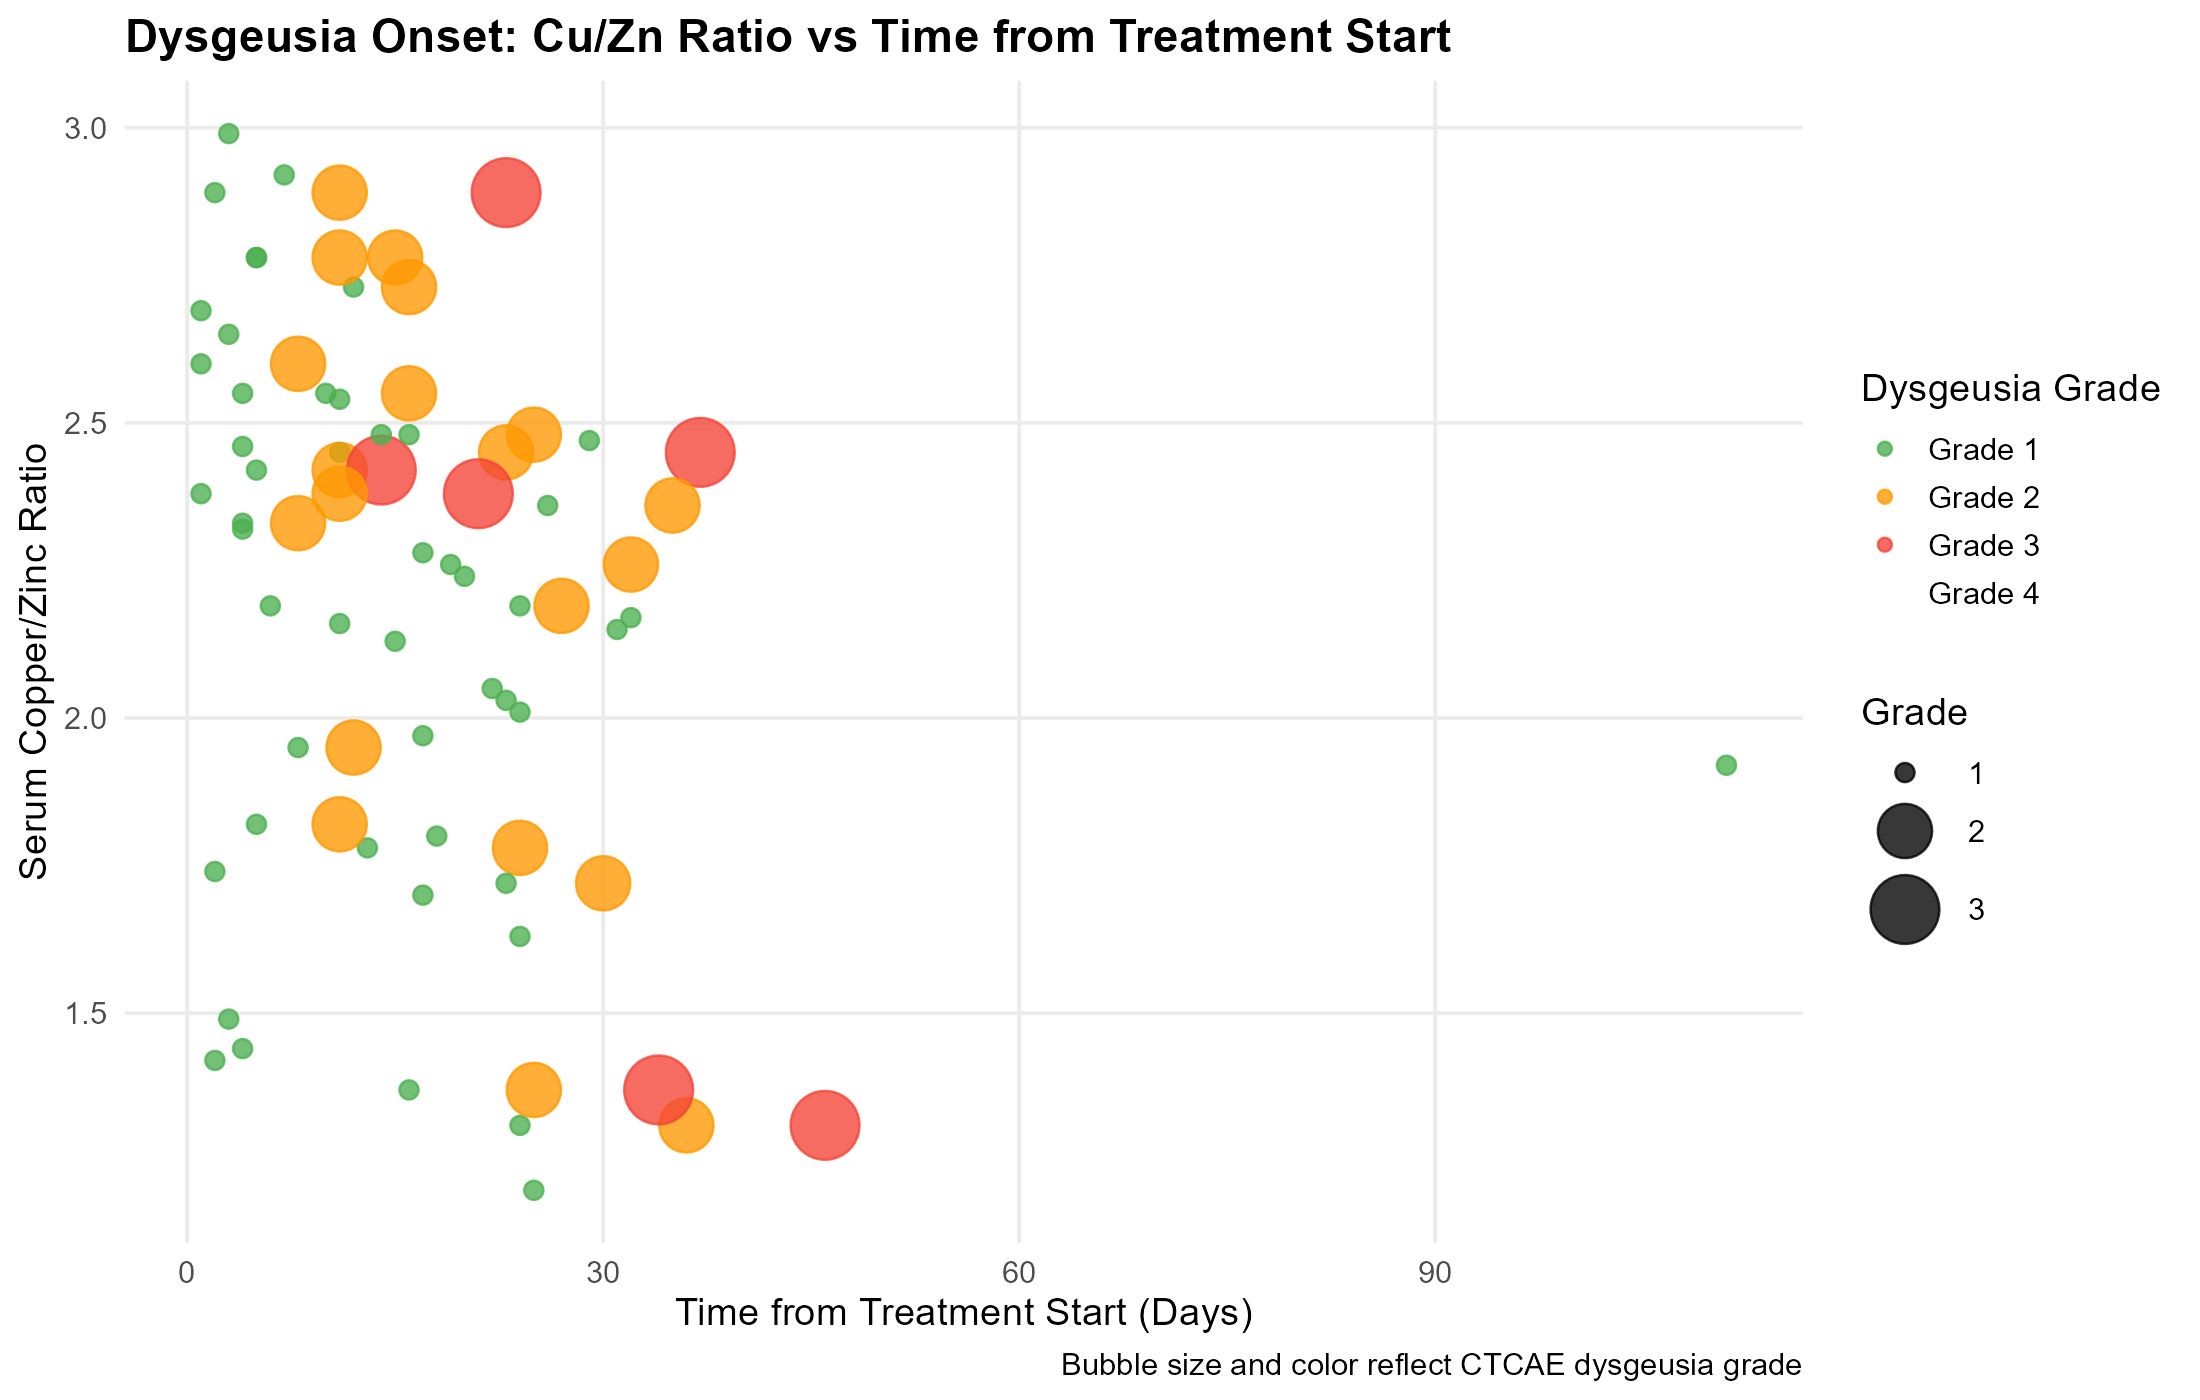
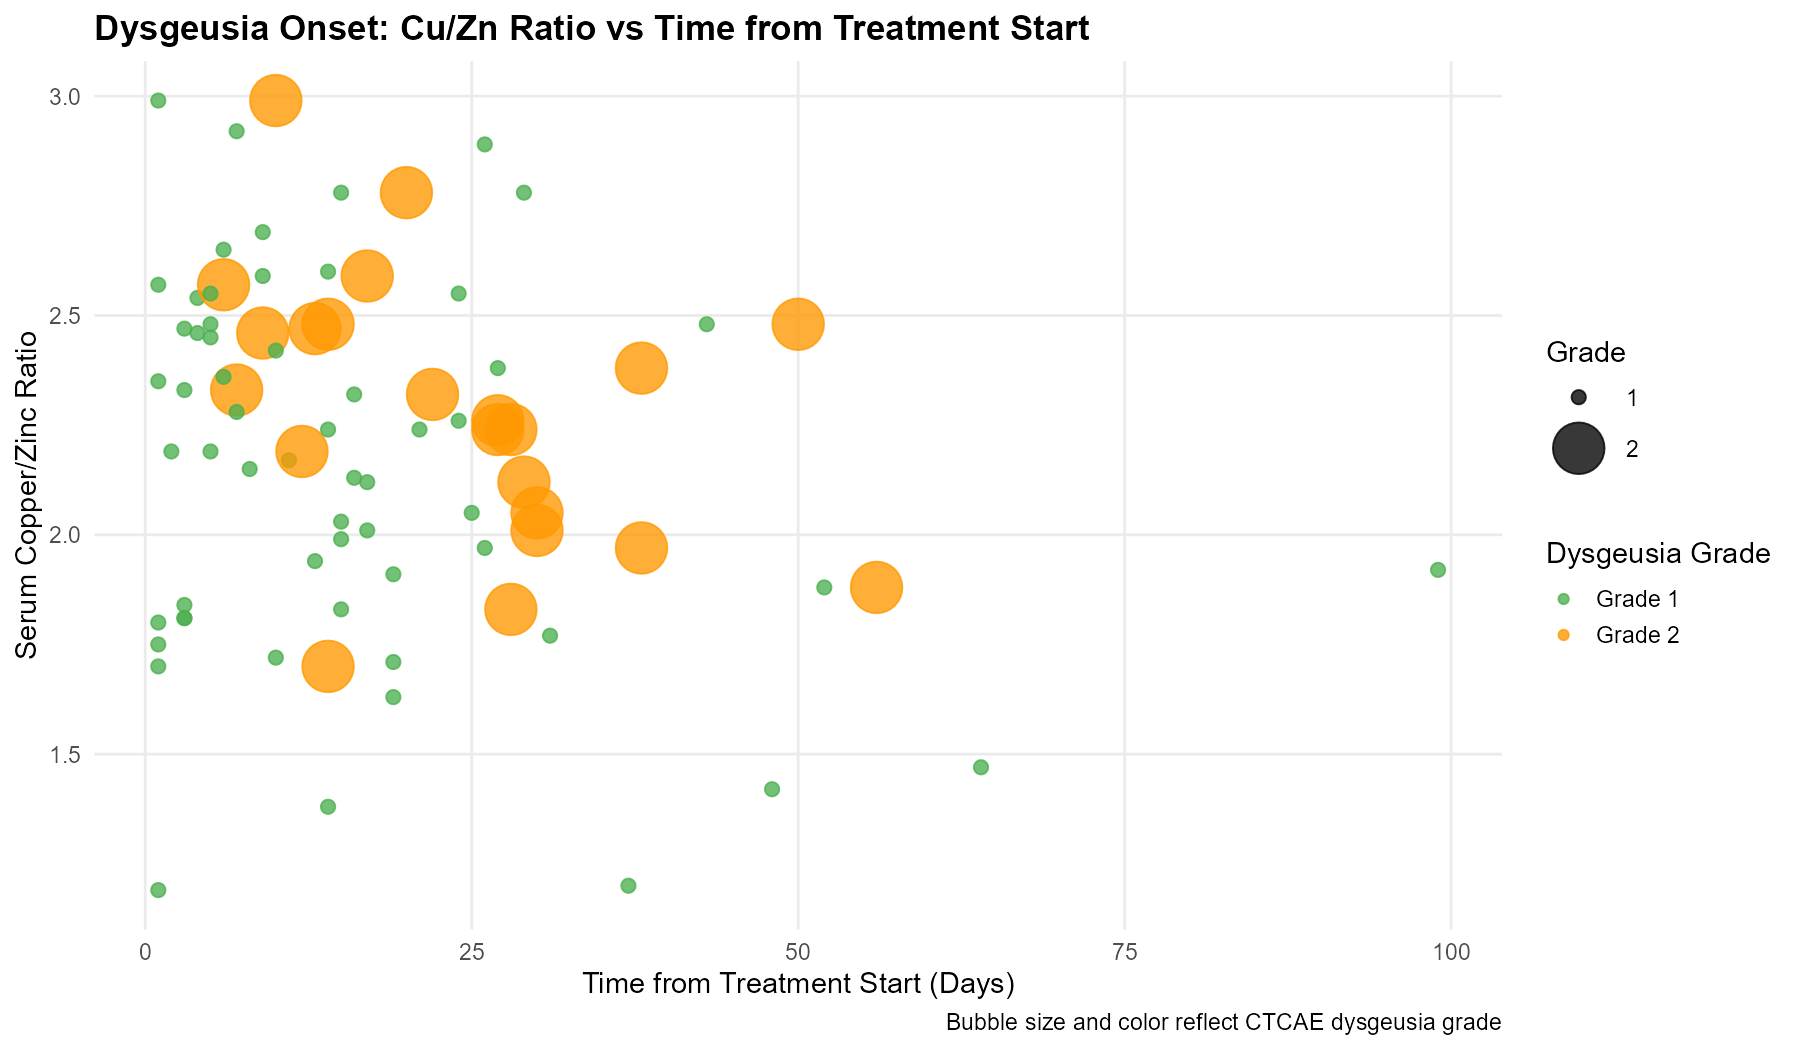
Use 25 mg top dose, CTCAE Grade 1-2 dysgeusia, ordinal regression
- Replace 30 mg dose level with 25 mg in simulation, filters, and docs
- Remove Grade 3/4 dysgeusia (CTCAE defines only Grade 1-2) from
  simulation, bubble plot, grade filter, and axis scales
- Reject uploaded CSVs containing dysgeusia_grade >= 3
- Replace ANOVA/linear regression on max grade with proportional-odds
  ordinal logistic regression (MASS::polr); add ORs to Word report
- Add MASS to DESCRIPTION and renv.lock; regenerate bubble plot image

diff --git a/CLAUDE.md b/CLAUDE.md
@@ -16,7 +16,7 @@ One row per patient:
 | Column | Type | Description |
 |--------|------|-------------|
 | patient_id | integer | Unique patient identifier |
-| dose_mg | numeric | Dose level: 1, 2, 4, 8, 15, or 30 mg |
+| dose_mg | numeric | Dose level: 1, 2, 4, 8, 15, or 25 mg |
 | cu_zn_ratio | numeric | Baseline serum Cu/Zn ratio |
 
 ### Event Table (`event_data`) — Long Format
@@ -24,7 +24,7 @@ One row per patient × grade:
 | Column | Type | Description |
 |--------|------|-------------|
 | patient_id | integer | Links to patient table |
-| dysgeusia_grade | integer | CTCAE grade (1–4) at first occurrence |
+| dysgeusia_grade | integer | CTCAE grade (1–2) at first occurrence |
 | time_to_first_onset | integer | Days from treatment start to first report of this grade |
 
 ### Full/Merged Table (`full_data`)
@@ -35,6 +35,8 @@ One row per patient × grade:
 - A patient can have grade 1 without grade 2, but NOT grade 2 without grade 1
 - `time_to_first_onset` is the FIRST occurrence of each grade (not a repeat)
 - Grade 0 = no dysgeusia (event-free / censored)
+- Per CTCAE, dysgeusia has only Grade 1 (mild) and Grade 2 (moderate); no Grade 3/4. Uploaded files with grade ≥ 3 are rejected
+- Max grade (0/1/2) analyzed with ordinal logistic regression (`MASS::polr`)
 - Censoring time = 180 days for survival analysis
 
 ## File Structure
@@ -60,7 +62,7 @@ Project 1/
 - **Shiny ecosystem**: `shiny`, `bslib`, `DT`, `shinyWidgets`
 - **Visualization**: `ggplot2`, `plotly`
 - **Data**: `dplyr`, `tidyr`
-- **Statistics**: `survival`, `broom`
+- **Statistics**: `survival`, `broom`, `MASS`
 - **Reporting**: `officer`, `flextable`
 - **Optional**: `survminer`
 

diff --git a/README.md b/README.md
@@ -8,10 +8,10 @@ An R Shiny application analyzing the relationship between dose level, serum Copp
 
 ## App Features
 
-- **Simulated dataset** — 100 patients across 6 dose levels (1, 2, 4, 8, 15, 30 mg)
+- **Simulated dataset** — 100 patients across 6 dose levels (1, 2, 4, 8, 15, 25 mg)
 - **Interactive bubble plot** — time vs Cu/Zn ratio, bubble size/color by CTCAE dysgeusia grade
 - **Dose & grade filters** — explore subsets interactively
-- **Statistical analysis** — dose-response, Cu/Zn vs grade, Cox regression, KM curves
+- **Statistical analysis** — dose-response, Cu/Zn vs grade (ordinal logistic regression), Cox regression, KM curves
 - **Upload your own data** — CSV template provided in the app
 - **Export to Word** — download a formatted summary report
 
@@ -69,9 +69,9 @@ The app uses a **long-format** dataset where each row is one patient × dysgeusi
 | Column | Type | Description |
 |--------|------|-------------|
 | `patient_id` | integer | Unique patient ID |
-| `dose_mg` | numeric | Dose level (1, 2, 4, 8, 15, or 30 mg) |
+| `dose_mg` | numeric | Dose level (1, 2, 4, 8, 15, or 25 mg) |
 | `cu_zn_ratio` | numeric | Baseline serum Cu/Zn ratio |
-| `dysgeusia_grade` | integer | CTCAE grade (0 = none, 1–4 = severity) |
+| `dysgeusia_grade` | integer | CTCAE grade (0 = none, 1 = mild, 2 = moderate; uploads with grade ≥ 3 are rejected) |
 | `time_to_first_onset` | numeric | Days from treatment start to first occurrence of this grade (NA if grade 0) |
 
 - Event patients have **multiple rows** (one per grade experienced)
